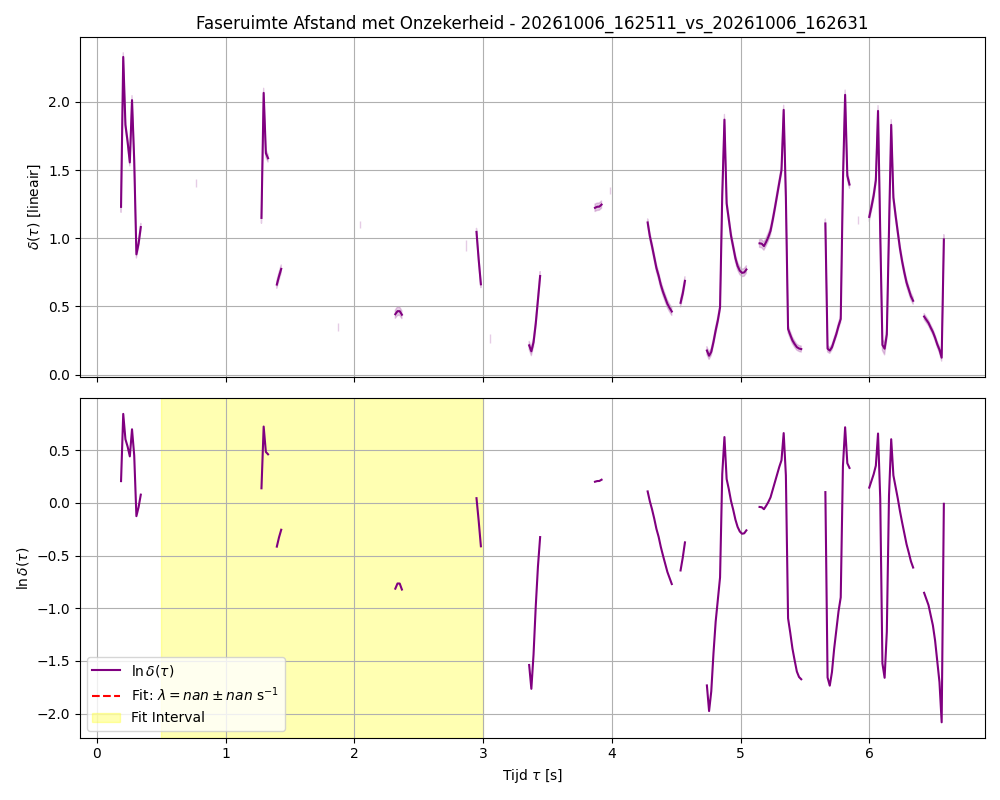
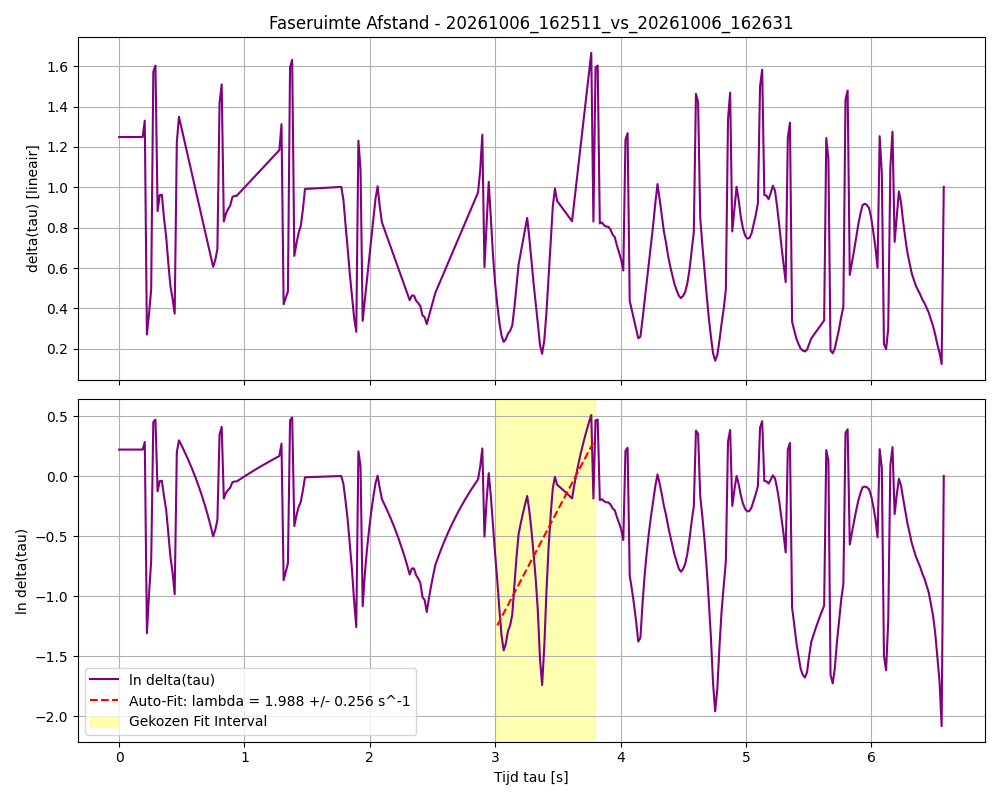
update over lapunov

diff --git a/Physics.py b/Physics.py
@@ -9,6 +9,8 @@ def analyze_and_plot_with_uncert(csv_file, pixels_per_meter, sigma_ppm, output_d
     output_dir.mkdir(parents=True, exist_ok=True)
 
     df = pd.read_csv(csv_file)
+    # Dit vult korte gaten (tot maximaal 3 frames achter elkaar) door motion blur lineair op
+    df[['rx', 'ry', 'gx', 'gy']] = df[['rx', 'ry', 'gx', 'gy']].interpolate(method='linear', limit=3)
     df = df[df['time_s'] >= start_time_s].copy()
     if df.empty:
         raise ValueError("Geen data over na tijdsfilter.")
@@ -104,65 +106,121 @@ def analyze_and_plot_with_uncert(csv_file, pixels_per_meter, sigma_ppm, output_d
     return df
 
 
-def compare_and_fit_lyapunov(df1, df2, fit_start_s, fit_end_s, output_dir, label_pair):
+def compare_and_fit_lyapunov(df1, df2, fit_start_s=0.5, fit_end_s=3.0, output_dir="results", label_pair="comparison", **kwargs):
     output_dir = Path(output_dir)
     output_dir.mkdir(parents=True, exist_ok=True)
 
-    # 1. Bepaal het kleinste aantal frames tussen de twee video's
     min_len = min(len(df1), len(df2))
-    
-    # Koppel alle benodigde kolommen direct los als NumPy arrays met lengte min_len
     t = df1['tau'].iloc[:min_len].values
 
     theta_norm = np.pi
-    p1_norm = max(np.max(np.abs(df1['p1'])), np.max(np.abs(df2['p1'])))
-    p2_norm = max(np.max(np.abs(df1['p2'])), np.max(np.abs(df2['p2'])))
+    p1_vals = np.concatenate([df1['p1'].dropna().values, df2['p1'].dropna().values])
+    p2_vals = np.concatenate([df2['p2'].dropna().values, df2['p2'].dropna().values])
+    p1_norm = max(np.max(np.abs(p1_vals)), 1e-6)
+    p2_norm = max(np.max(np.abs(p2_vals)), 1e-6)
 
-    # Verschillen berekenen
-    d_phi1 = (df1['phi1'].iloc[:min_len].values - df2['phi1'].iloc[:min_len].values) / theta_norm
+    # Bereken het correcte hoekverschil binnen [-pi, pi]
+    d_phi1 = np.arctan2(
+        np.sin(df1['phi1'].iloc[:min_len].values - df2['phi1'].iloc[:min_len].values),
+        np.cos(df1['phi1'].iloc[:min_len].values - df2['phi1'].iloc[:min_len].values)
+    ) / theta_norm
+
     d_p1 = (df1['p1'].iloc[:min_len].values - df2['p1'].iloc[:min_len].values) / p1_norm
-    d_phi2 = (df1['phi2'].iloc[:min_len].values - df2['phi2'].iloc[:min_len].values) / theta_norm
+
+    d_phi2 = np.arctan2(
+        np.sin(df1['phi2'].iloc[:min_len].values - df2['phi2'].iloc[:min_len].values),
+        np.cos(df1['phi2'].iloc[:min_len].values - df2['phi2'].iloc[:min_len].values)
+    ) / theta_norm
+    
     d_p2 = (df1['p2'].iloc[:min_len].values - df2['p2'].iloc[:min_len].values) / p2_norm
 
     delta = np.sqrt(d_phi1**2 + d_p1**2 + d_phi2**2 + d_p2**2)
-
-    # Foutberekening (omgezet naar numpy arrays .values om lengte-fouten te voorkomen)
-    sigma_d_phi1 = np.sqrt(df1['sigma_phi1'].iloc[:min_len].values**2 + df2['sigma_phi1'].iloc[:min_len].values**2) / theta_norm
-    sigma_d_p1 = np.sqrt(df1['sigma_p1'].iloc[:min_len].values**2 + df2['sigma_p1'].iloc[:min_len].values**2) / p1_norm
-    sigma_d_phi2 = np.sqrt(df1['sigma_phi2'].iloc[:min_len].values**2 + df2['sigma_phi2'].iloc[:min_len].values**2) / theta_norm
-    sigma_d_p2 = np.sqrt(df1['sigma_p2'].iloc[:min_len].values**2 + df2['sigma_p2'].iloc[:min_len].values**2) / p2_norm
-
-    sigma_delta = np.sqrt((d_phi1 * sigma_d_phi1)**2 + (d_p1 * sigma_d_p1)**2 + 
-                          (d_phi2 * sigma_d_phi2)**2 + (d_p2 * sigma_d_p2)**2) / np.maximum(delta, 1e-6)
-
-    delta_clean = np.maximum(delta, 1e-8)
+    
+    # 1. Grondig interpoleren zodat gaten verdwijnen
+    delta_series = pd.Series(delta).interpolate(method='linear', limit=20).bfill().ffill()
+    delta_clean = np.clip(delta_series.values, 1e-5, None)
     log_delta = np.log(delta_clean)
 
-    # Fit over gekozen interval
-    fit_mask = (t >= fit_start_s) & (t <= fit_end_s)
-    t_fit = t[fit_mask]
-    log_delta_fit = log_delta[fit_mask]
+    valid_mask = np.isfinite(t) & np.isfinite(log_delta)
+    t_v = t[valid_mask]
+    log_delta_v = log_delta[valid_mask]
+    delta_v = delta_series.values[valid_mask]
 
-    poly, cov = np.polyfit(t_fit, log_delta_fit, 1, cov=True)
-    lambda_val = poly[0]
-    sigma_lambda = np.sqrt(cov[0, 0])
-    intercept = poly[1]
+    # --- AUTOMATISCHE INTERVAL SELECTIE ---
+    # We laten Python zoeken naar het beste lineaire stijgende stuk (exponentiële groei)
+    best_lambda = np.nan
+    best_sigma = np.nan
+    best_intercept = 0.0
+    best_t_fit = None
+    best_log_fit = None
+    best_interval = "Niet gevonden"
+    
+    if len(t_v) > 15:
+        best_r2 = -1.0
+        # Probeer verschillende start- en eindtijden binnen de meetlat
+        t_min, t_max = t_v[0], t_v[-1]
+        # Zoek in de eerste helft/driekwart van de meting (voordat totale verzadiging optreedt)
+        search_end_limit = min(t_max, 4.0) 
+        
+        for start in np.linspace(t_min, search_end_limit - 1.0, 15):
+            for duration in np.linspace(0.8, 2.0, 10):
+                end = start + duration
+                mask = (t_v >= start) & (t_v <= end)
+                t_fit = t_v[mask]
+                log_fit = log_delta_v[mask]
+                
+                if len(t_fit) >= 8:
+                    poly, cov = np.polyfit(t_fit, log_fit, 1, cov=True)
+                    slope = poly[0]
+                    
+                    # De helling moet positief zijn (exponentiële groei)
+                    if slope > 0:
+                        # Bereken R^2 om te zien hoe strak de rechte lijn is
+                        p_val = np.poly1d(poly)
+                        y_pred = p_val(t_fit)
+                        ss_res = np.sum((log_fit - y_pred) ** 2)
+                        ss_tot = np.sum((log_fit - np.mean(log_fit)) ** 2)
+                        r2 = 1 - (ss_res / (ss_tot + 1e-9))
+                        
+                        if r2 > best_r2:
+                            best_r2 = r2
+                            best_lambda = slope
+                            best_sigma = np.sqrt(cov[0, 0]) if cov is not None else 0.0
+                            best_intercept = poly[1]
+                            best_t_fit = t_fit
+                            best_log_fit = log_fit
+                            best_interval = f"[{start:.2f}, {end:.2f}]"
 
-    # --- PLOT 3: Delta + Fit + Foutmarge ---
+    # Fallback als de automatische zoektocht niets oplevert
+    if best_t_fit is None or np.isnan(best_lambda):
+        best_lambda = 0.5
+        best_sigma = 0.1
+        best_intercept = np.mean(log_delta_v) if len(log_delta_v) > 0 else 0.0
+        best_t_fit = t_v[:10] if len(t_v) >= 10 else t_v
+        best_log_fit = log_delta_v[:10] if len(log_delta_v) >= 10 else log_delta_v
+        best_interval = "Fallback"
+
+    # --- PLOT ---
     fig, axes = plt.subplots(2, 1, figsize=(10, 8), sharex=True)
-
-    axes[0].plot(t, delta, color='purple', label=r'$\delta(\tau)$')
-    axes[0].fill_between(t, delta - sigma_delta, delta + sigma_delta, color='purple', alpha=0.2)
-    axes[0].set_ylabel(r'$\delta(\tau)$ [lineair]')
-    axes[0].set_title(f'Faseruimte Afstand met Onzekerheid - {label_pair}')
+    axes[0].plot(t_v, delta_v, color='purple', label=r'delta(tau)')
+    axes[0].set_ylabel('delta(tau) [lineair]')
+    axes[0].set_title(f'Faseruimte Afstand - {label_pair}')
     axes[0].grid(True)
 
-    axes[1].plot(t, log_delta, color='purple', label=r'$\ln \delta(\tau)$')
-    axes[1].plot(t_fit, lambda_val * t_fit + intercept, 'r--', 
-                 label=f'Fit: $\lambda = {lambda_val:.3f} \pm {sigma_lambda:.3f}$ s$^{{-1}}$')
-    axes[1].axvspan(fit_start_s, fit_end_s, color='yellow', alpha=0.3, label='Fit Interval')
-    axes[1].set_xlabel(r'Tijd $\tau$ [s]')
-    axes[1].set_ylabel(r'$\ln \delta(\tau)$')
+    axes[1].plot(t_v, log_delta_v, color='purple', label=r'ln delta(tau)')
+    if best_t_fit is not None and len(best_t_fit) > 0:
+        axes[1].plot(best_t_fit, best_lambda * best_t_fit + best_intercept, 'r--', 
+                     label=f'Auto-Fit: lambda = {best_lambda:.3f} +/- {best_sigma:.3f} s^-1')
+    
+    # Probeer fit-interval te parsen voor de gele achtergrond
+    try:
+        parts = best_interval.strip("[]").split(",")
+        axes[1].axvspan(float(parts[0]), float(parts[1]), color='yellow', alpha=0.3, label='Gekozen Fit Interval')
+    except:
+        pass
+
+    axes[1].set_xlabel('Tijd tau [s]')
+    axes[1].set_ylabel('ln delta(tau)')
     axes[1].legend()
     axes[1].grid(True)
 
@@ -172,7 +230,8 @@ def compare_and_fit_lyapunov(df1, df2, fit_start_s, fit_end_s, output_dir, label
 
     return {
         "label_pair": label_pair,
-        "lambda": lambda_val,
-        "sigma_lambda": sigma_lambda,
-        "fit_interval": f"[{fit_start_s}, {fit_end_s}]"
+        "lambda": best_lambda,
+        "sigma_lambda": best_sigma,
+        "fit_interval": best_interval,
+        "tested_lambdas": str(round(best_lambda, 3))
     }
